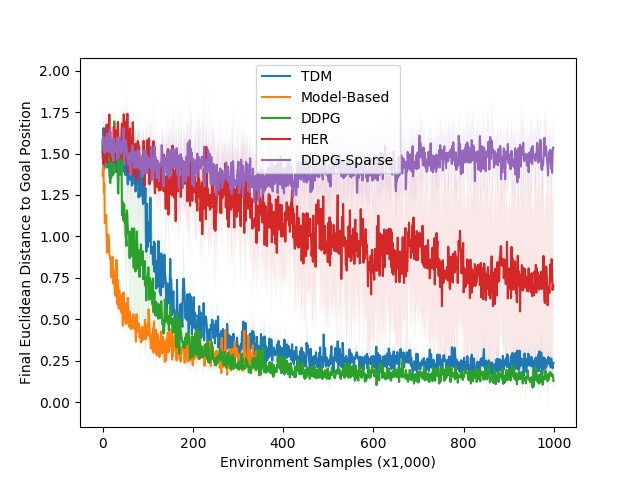
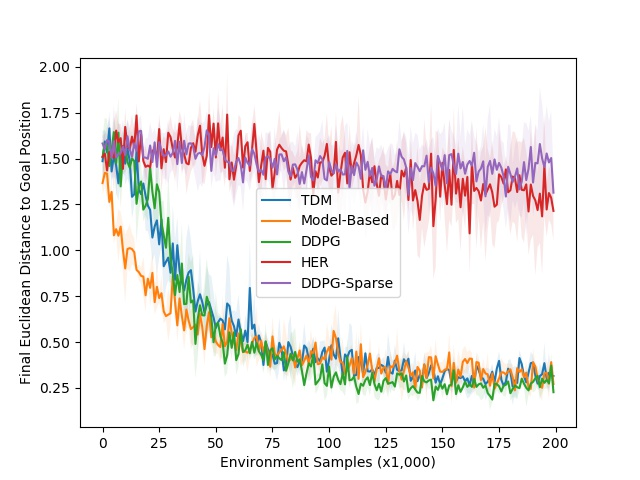
update ant plots

diff --git a/experiments/state_distance/iclr2018/ant_results.py b/experiments/state_distance/iclr2018/ant_results.py
@@ -6,7 +6,7 @@ def main():
     ddpg_trials = Experiment(
         "/home/vitchyr/git/railrl/data/doodads3/12-23-ddpg-nupo-sweep-ant/",
         criteria={
-            'exp_id': '19',
+            'exp_id': '16',
         },
     ).get_trials()
     her_andrychowicz_trials = Experiment(
@@ -19,7 +19,7 @@ def main():
     tdm_trials = Experiment(
         "/home/vitchyr/git/railrl/data/doodads3/12-24-ddpg-nupo-sweep-ant/",
         criteria={
-            'exp_id': '12',
+            'exp_id': '16',
         }
     ).get_trials()
     # Accidentally called this pusher, but it's really ant
@@ -46,7 +46,8 @@ def main():
         },
     ).get_trials()
 
-    MAX_ITERS = 10001
+    # MAX_ITERS = 10001
+    MAX_ITERS = 200
 
     plt.figure()
     base_key = 'Final Distance to goal Mean'
@@ -81,7 +82,7 @@ def main():
     plt.ylabel("Final Euclidean Distance to Goal Position")
     plt.legend()
     plt.savefig('results/iclr2018/ant.jpg')
-    plt.show()
+    # plt.show()
 
 
 def average_every_n_elements(arr, n):
